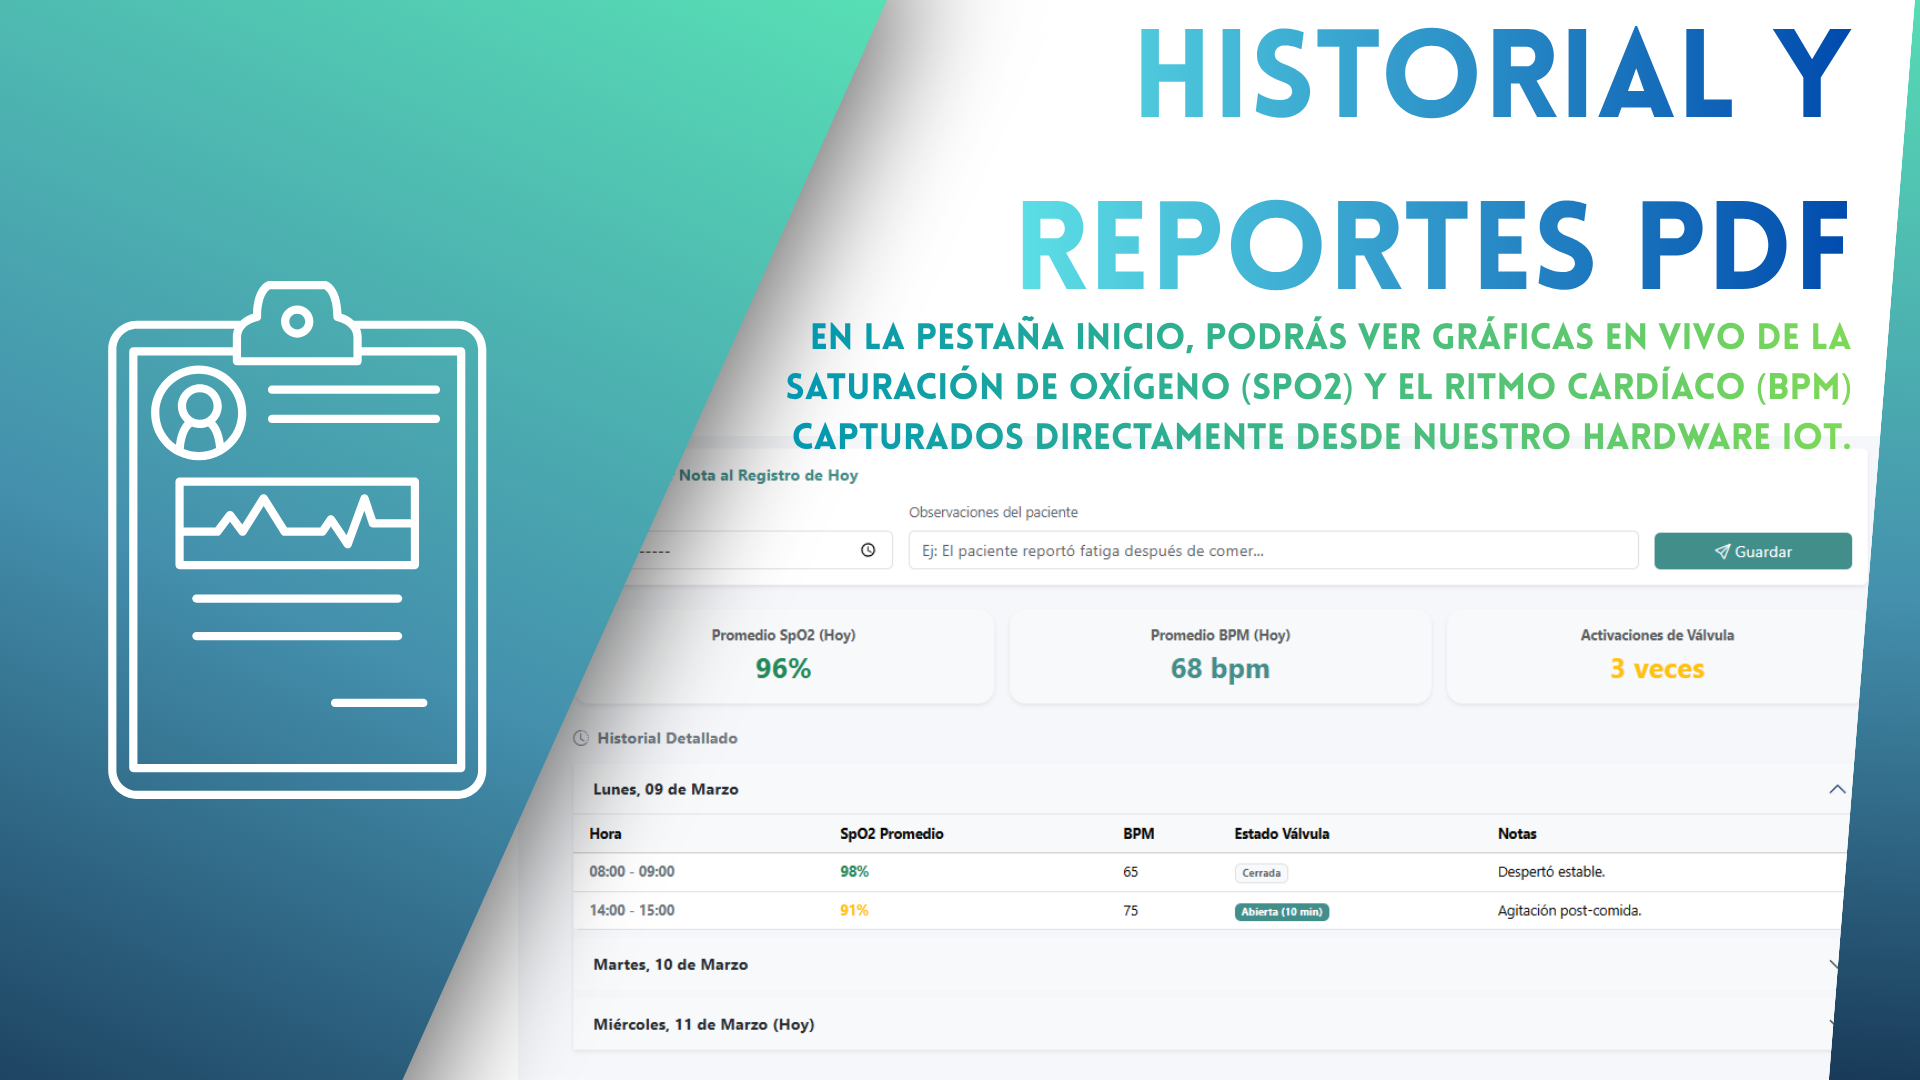
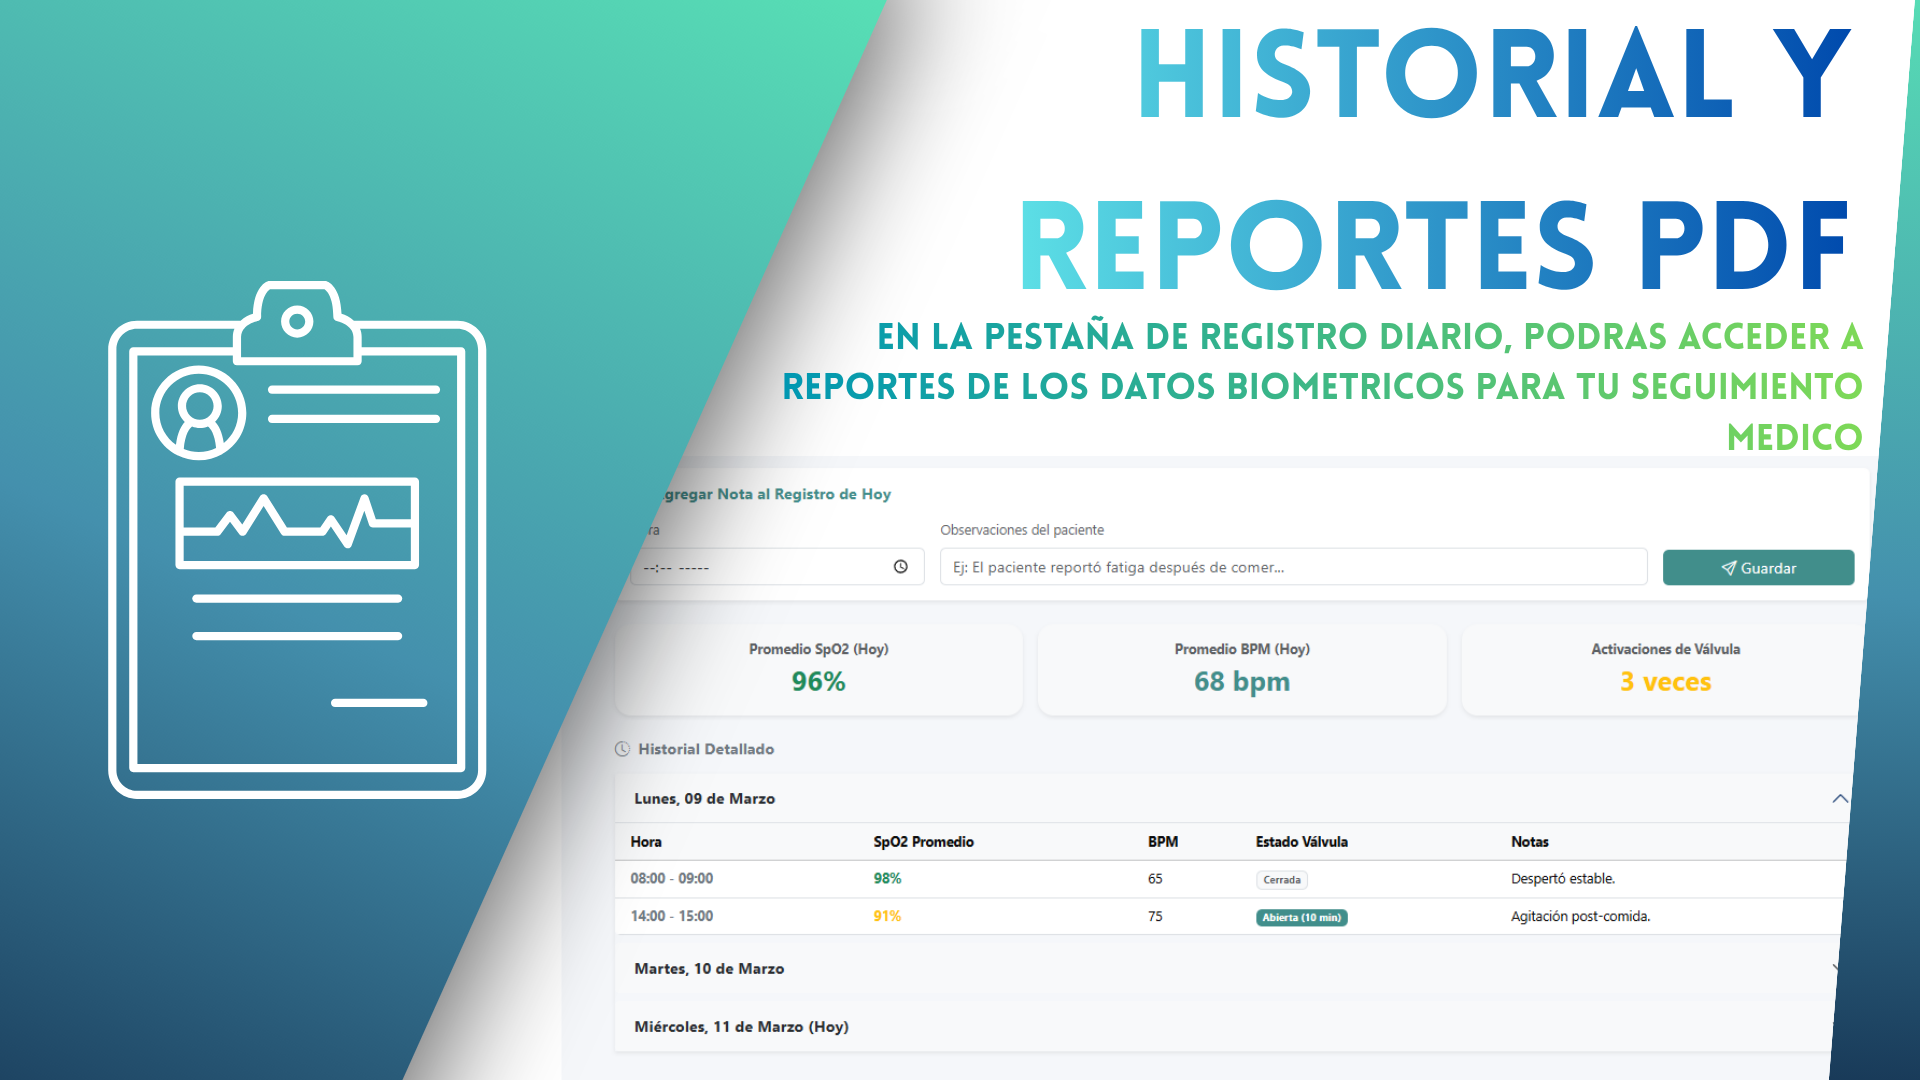
Guia Moviles

diff --git a/public/guia.html b/public/guia.html
@@ -7,7 +7,6 @@
   <link href="https://cdn.jsdelivr.net/npm/bootstrap@5.3.2/dist/css/bootstrap.min.css" rel="stylesheet">
   <link rel="stylesheet" href="https://cdn.jsdelivr.net/npm/bootstrap-icons@1.11.1/font/bootstrap-icons.css">
   <style>
-    /* 1. RESETEO TOTAL PARA QUITAR BORDES */
     body, html { 
         height: 100%; 
         margin: 0; 
@@ -16,13 +15,11 @@
         background-color: #000; 
     }
     
-    /* Contenedor principal del carrusel ocupando toda la ventana visual (Viewport) */
     #carruselGuiaSeroa, .carousel-inner, .carousel-item { 
         height: 100vh; 
         width: 100vw;
     }
 
-    /* 2. ESTIRAR LA IMAGEN */
     .img-guia {
         width: 100vw;  
         height: 100vh; 
@@ -30,7 +27,6 @@
         display: block; 
     }
 
-    /* Estilos de los indicadores (puntitos) */
     .carousel-indicators {
         bottom: 20px; 
     }
@@ -47,7 +43,6 @@
         background-color: #1aa179;
     }
 
-    /* Botón final sobrepuesto de forma elegante */
     .btn-comenzar-container {
         position: absolute;
         bottom: 8%; 
@@ -79,7 +74,6 @@
         box-shadow: 0 8px 25px rgba(0,0,0,0.6);
     }
 
-    /* Controles laterales más visibles */
     .control-btn { 
         background-color: rgba(0, 0, 0, 0.4); 
         border-radius: 50%; 
@@ -100,28 +94,40 @@
 <div id="carruselGuiaSeroa" class="carousel slide" data-bs-touch="true" data-bs-interval="false">
   
   <div class="carousel-indicators mb-4">
-    <button type="button" data-bs-target="#carruselGuiaSeroa" data-bs-slide-to="0" class="active" aria-current="true" aria-label="Slide 1"></button>
-    <button type="button" data-bs-target="#carruselGuiaSeroa" data-bs-slide-to="1" aria-label="Slide 2"></button>
-    <button type="button" data-bs-target="#carruselGuiaSeroa" data-bs-slide-to="2" aria-label="Slide 3"></button>
-    <button type="button" data-bs-target="#carruselGuiaSeroa" data-bs-slide-to="3" aria-label="Slide 4"></button>
+    <button type="button" data-bs-target="#carruselGuiaSeroa" data-bs-slide-to="0" class="active" aria-current="true"></button>
+    <button type="button" data-bs-target="#carruselGuiaSeroa" data-bs-slide-to="1"></button>
+    <button type="button" data-bs-target="#carruselGuiaSeroa" data-bs-slide-to="2"></button>
+    <button type="button" data-bs-target="#carruselGuiaSeroa" data-bs-slide-to="3"></button>
   </div>
 
   <div class="carousel-inner">
     
     <div class="carousel-item active">
-      <img src="img/guia-1.png" class="img-guia" alt="Bienvenida a Seroa">
+      <picture>
+        <source media="(max-width: 768px)" srcset="img/guia-movil-1.png">
+        <img src="img/guia-1.png" class="img-guia" alt="Bienvenida a Seroa">
+      </picture>
     </div>
 
     <div class="carousel-item">
-      <img src="img/guia-2.png" class="img-guia" alt="Dashboard en tiempo real">
+      <picture>
+        <source media="(max-width: 768px)" srcset="img/guia-movil-2.png">
+        <img src="img/guia-2.png" class="img-guia" alt="Dashboard en tiempo real">
+      </picture>
     </div>
 
     <div class="carousel-item">
-      <img src="img/guia-3.png" class="img-guia" alt="Gestión de pacientes">
+      <picture>
+        <source media="(max-width: 768px)" srcset="img/guia-movil-3.png">
+        <img src="img/guia-3.png" class="img-guia" alt="Gestión de pacientes">
+      </picture>
     </div>
 
     <div class="carousel-item">
-      <img src="img/guia-4.png" class="img-guia" alt="Reportes y Registro Diario">
+      <picture>
+        <source media="(max-width: 768px)" srcset="img/guia-movil-4.png">
+        <img src="img/guia-4.png" class="img-guia" alt="Reportes y Registro Diario">
+      </picture>
       <div class="btn-comenzar-container">
         <a href="login.html" class="btn btn-seroa">¡Empezar Ahora!</a>
       </div>
